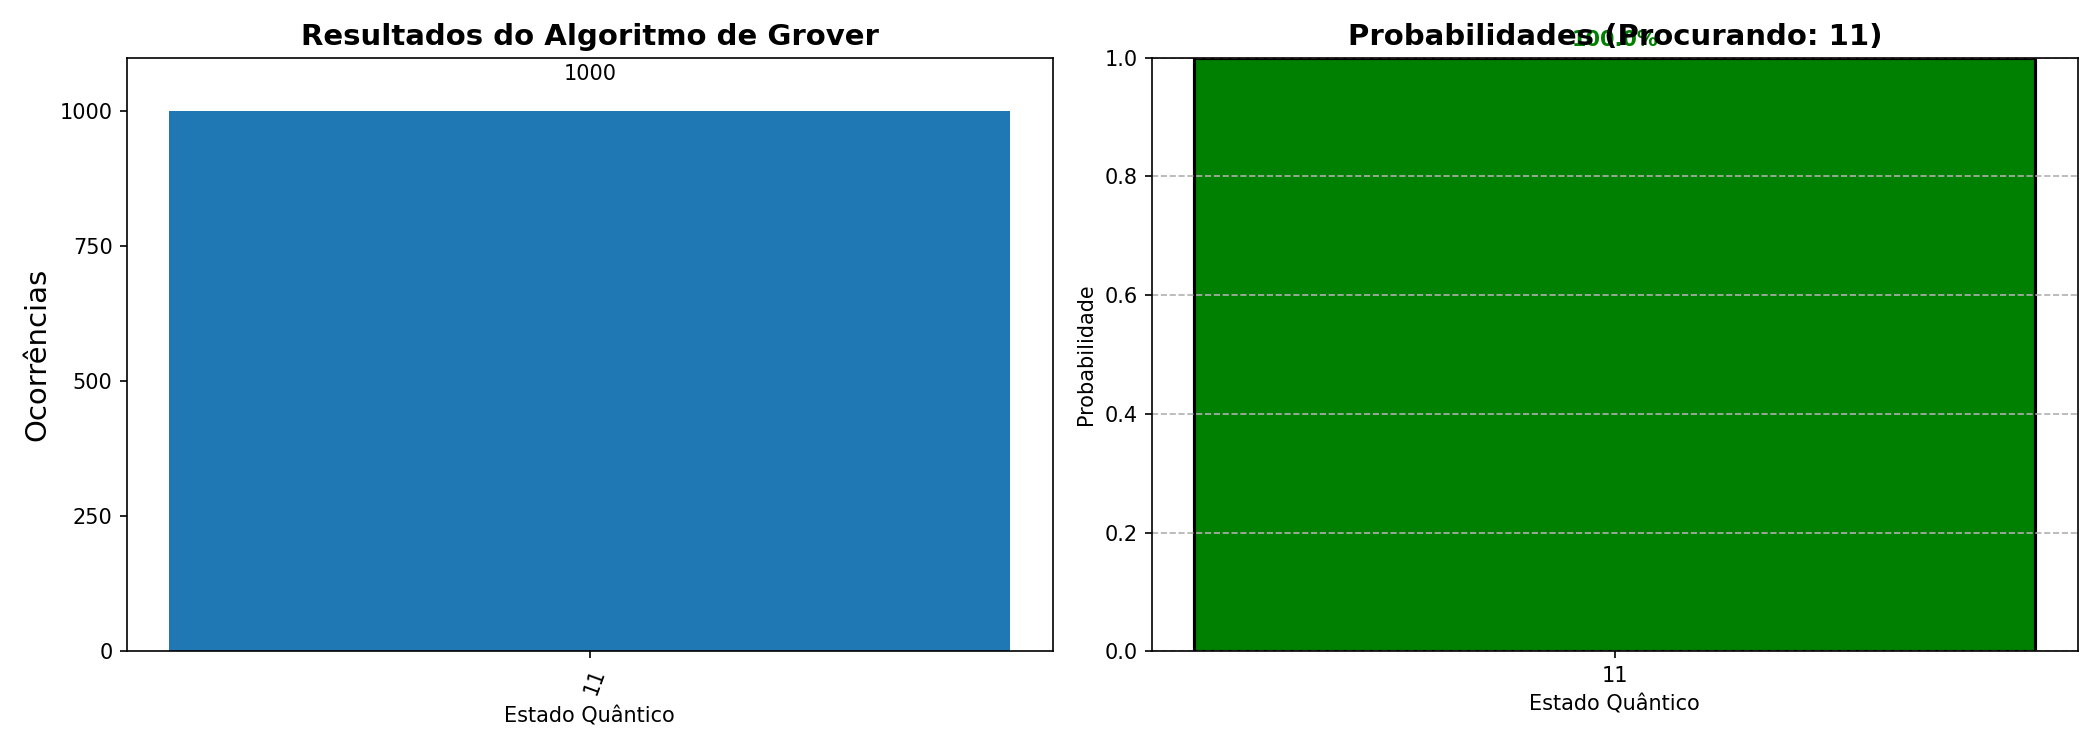
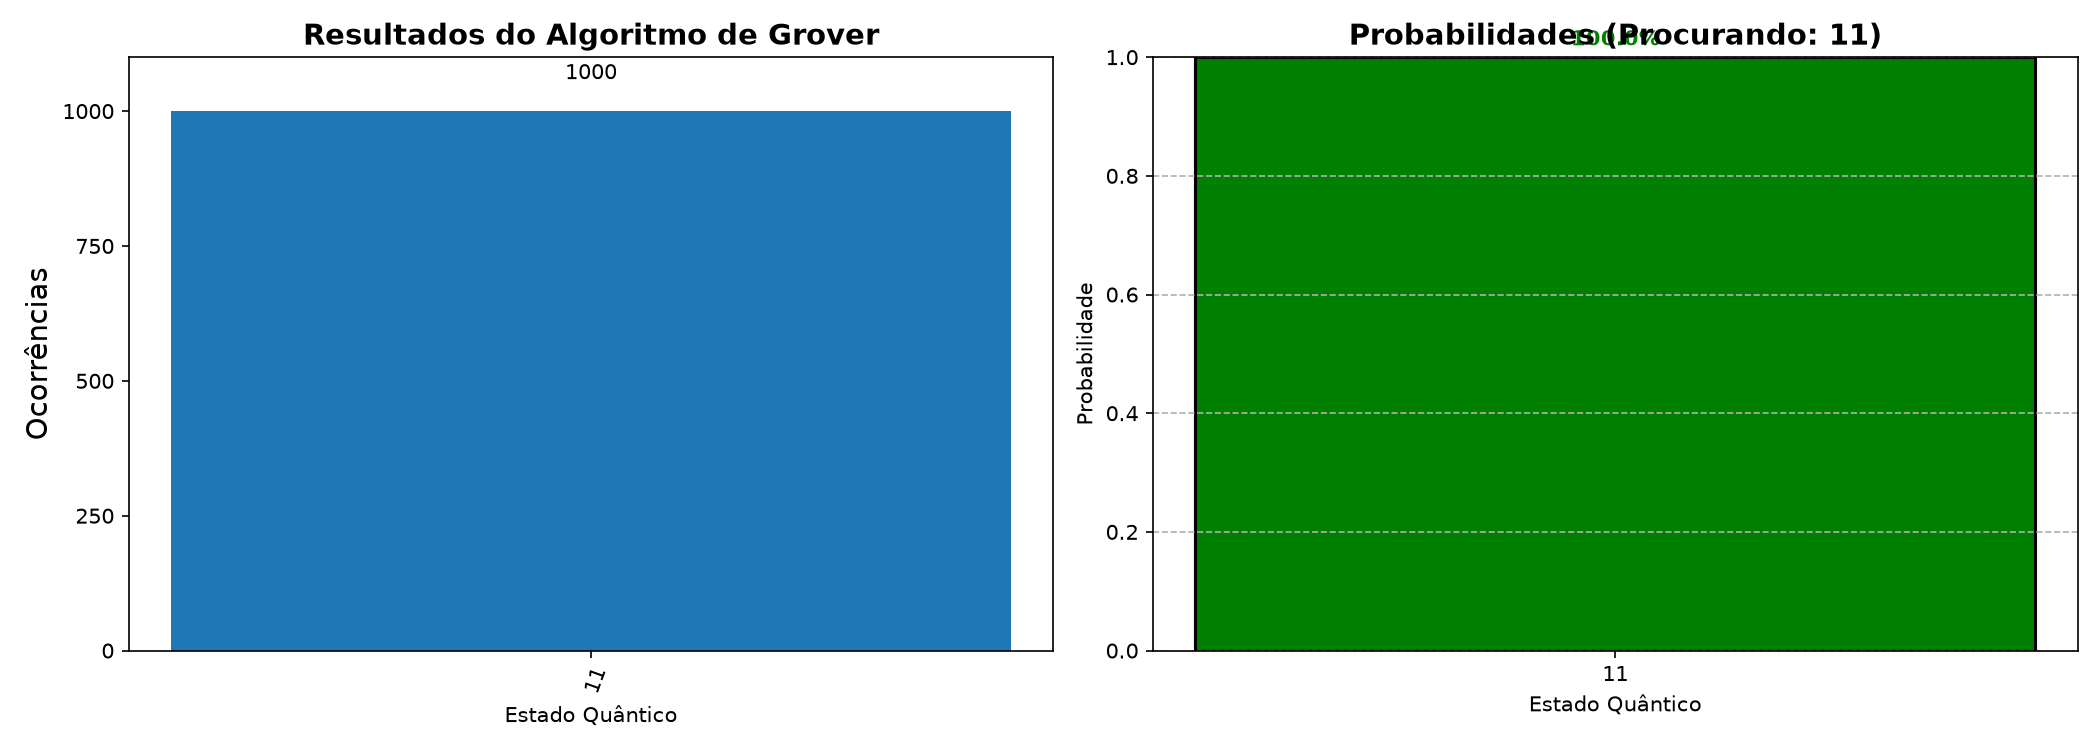
Docs: include generated images, add changelog and report

diff --git a/README.md b/README.md
@@ -76,6 +76,16 @@ As figuras geradas serão salvas em `docs/imagens/`.
 
 As imagens de exemplo (circuito e resultados) estão em `docs/imagens/`.
 
+Exemplos gerados pelo projeto:
+
+![Circuito de Grover](docs/imagens/circuito.png)
+
+![Resultado da execução](docs/imagens/resultado.png)
+
+![Comparação entre elementos](docs/imagens/comparacao.png)
+
+![Efeito do número de iterações](docs/imagens/iteracoes.png)
+
 ## Estrutura do projeto
 
 ```